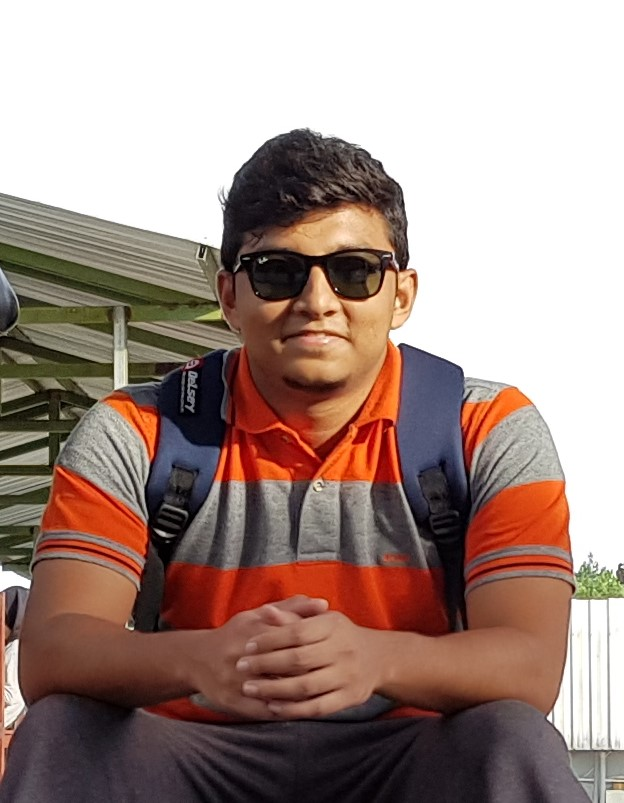
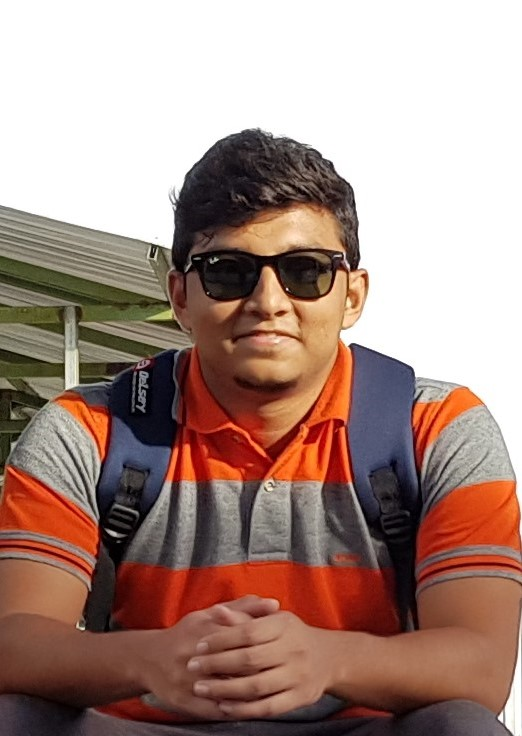
Repositioned images

diff --git a/index.html b/index.html
@@ -97,11 +97,11 @@
 			<section class="banner-area">
 				<div class="container">
 					<div class="row fullscreen align-items-center justify-content-between">
-						<div class="col-lg-7 col-md-7 col-sm-12 banner-left">
+						<div class="col-lg-6 col-md-7 col-sm-12 banner-left">
 							<h6>This is me</h6>
 							<h1>Md Mushfiqur Rahman</h1>
 							<p>I want to be the person I needed when I was younger</p>
-							<div class="section_zone col-lg-5">
+							<div class="section_zone col-lg-6">
 								<a href="https://www.facebook.com/m.mushfiqur" alt="Facebook"><i class="fa fa-facebook fa-2x"></i></a>
 								<a href="https://www.twitter.com/m_ankan99" alt="Twitter"><i class="fa fa-twitter fa-2x"></i></a>
 								<a href="https://www.github.com/mushfiqur11" alt="GitHub"><i class="fa fa-github fa-2x"></i></a>
@@ -110,21 +110,22 @@
 								<a href="https://scholar.google.com/citations?user=-g03AyEAAAAJ&hl=en" alt="Google Scholar"><i class="fa fa-graduation-cap fa-2x" ></i></a>
 							</div>	
 							<p>Computer Vision | Machine Learning | AI Research</p>
-							<p>I am a final year undergradute student of IUT, Gazipur (CSE department). I love problem solving. I enjoy coding. I am interested in doing research in the fields of computer vision, ML/DL and AI planning and optimization</p>
+							<p>I am a lecturer at MIST and an incoming Ph.D. student at George Mason University, VA. I love problem solving. I enjoy coding. I am interested in doing research in the fields of computer vision, ML/DL and AI planning and optimization</p>
 							<div class ="container">
 								<div class = "row">
-									<div class="col-lg-6 col-md-7 col-sm-12">
+									<!--
+									<div class="col-lg-3 col-md-7 col-sm-12">
 										<a href="skills.html" class="primary-btn text-uppercase ">discover now</a>
 									</div>
-									
+									-->
 									<div class="col-lg-4 col-md-5 col-sm-12">
-										<a href="Md_Mushfiqur_Rahman_CV.pdf" target="_blank" class="primary-btn text-uppercase">view CV</a>
+										<a href="Md_Mushfiqur_Rahman_CV.pdf" target="_blank" class="primary-btn text-uppercase">View CV</a>
 									</div>
 								</div>
 							</div>
 						</div>
-						<div class="col-lg-5 col-md-5 col-sm-12 banner-right d-flex align-self-end">
-							<img class="img-fluid" src="img/mushfiq.jpg" alt="">
+						<div class="col-lg-6 col-md-2 col-sm-12 banner-right d-flex align-self-end">
+							<img class="img-fluid" src="img/mushfiq.png" alt="">
 						</div>
 					</div>
 				</div>					
